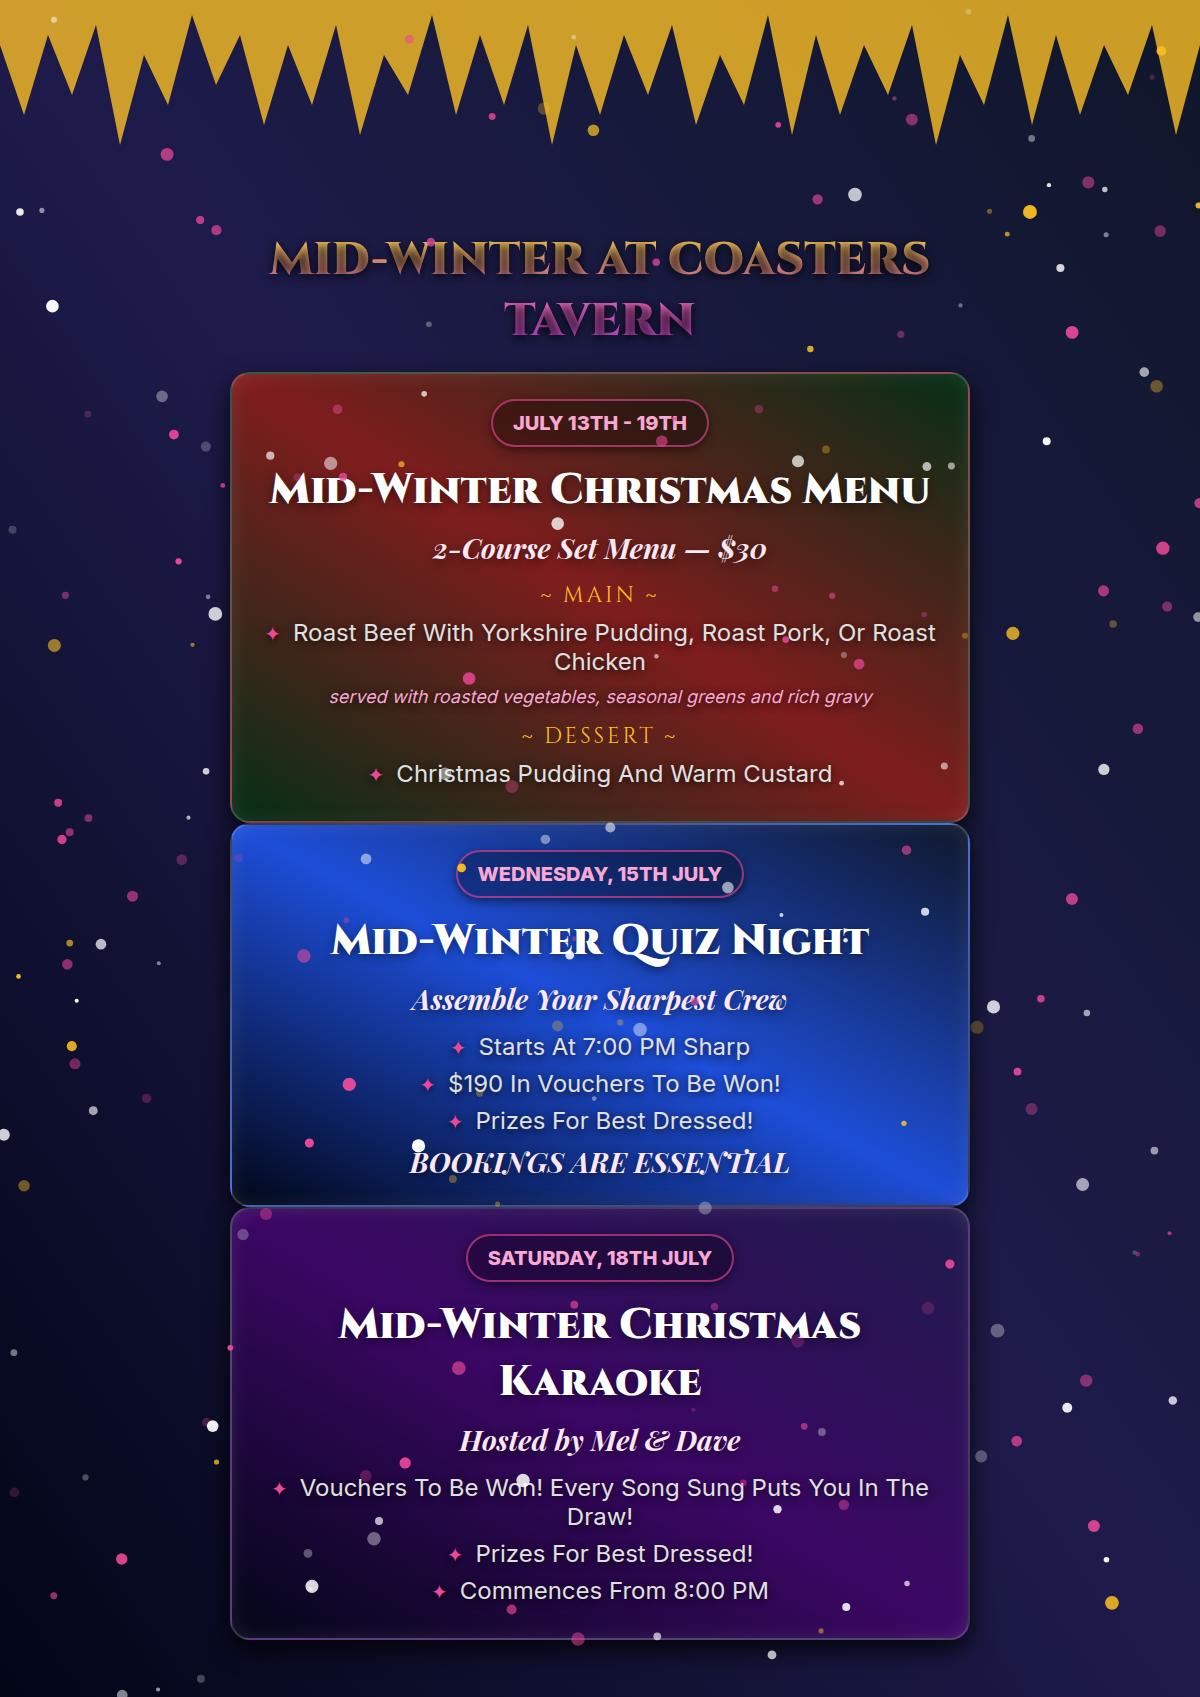
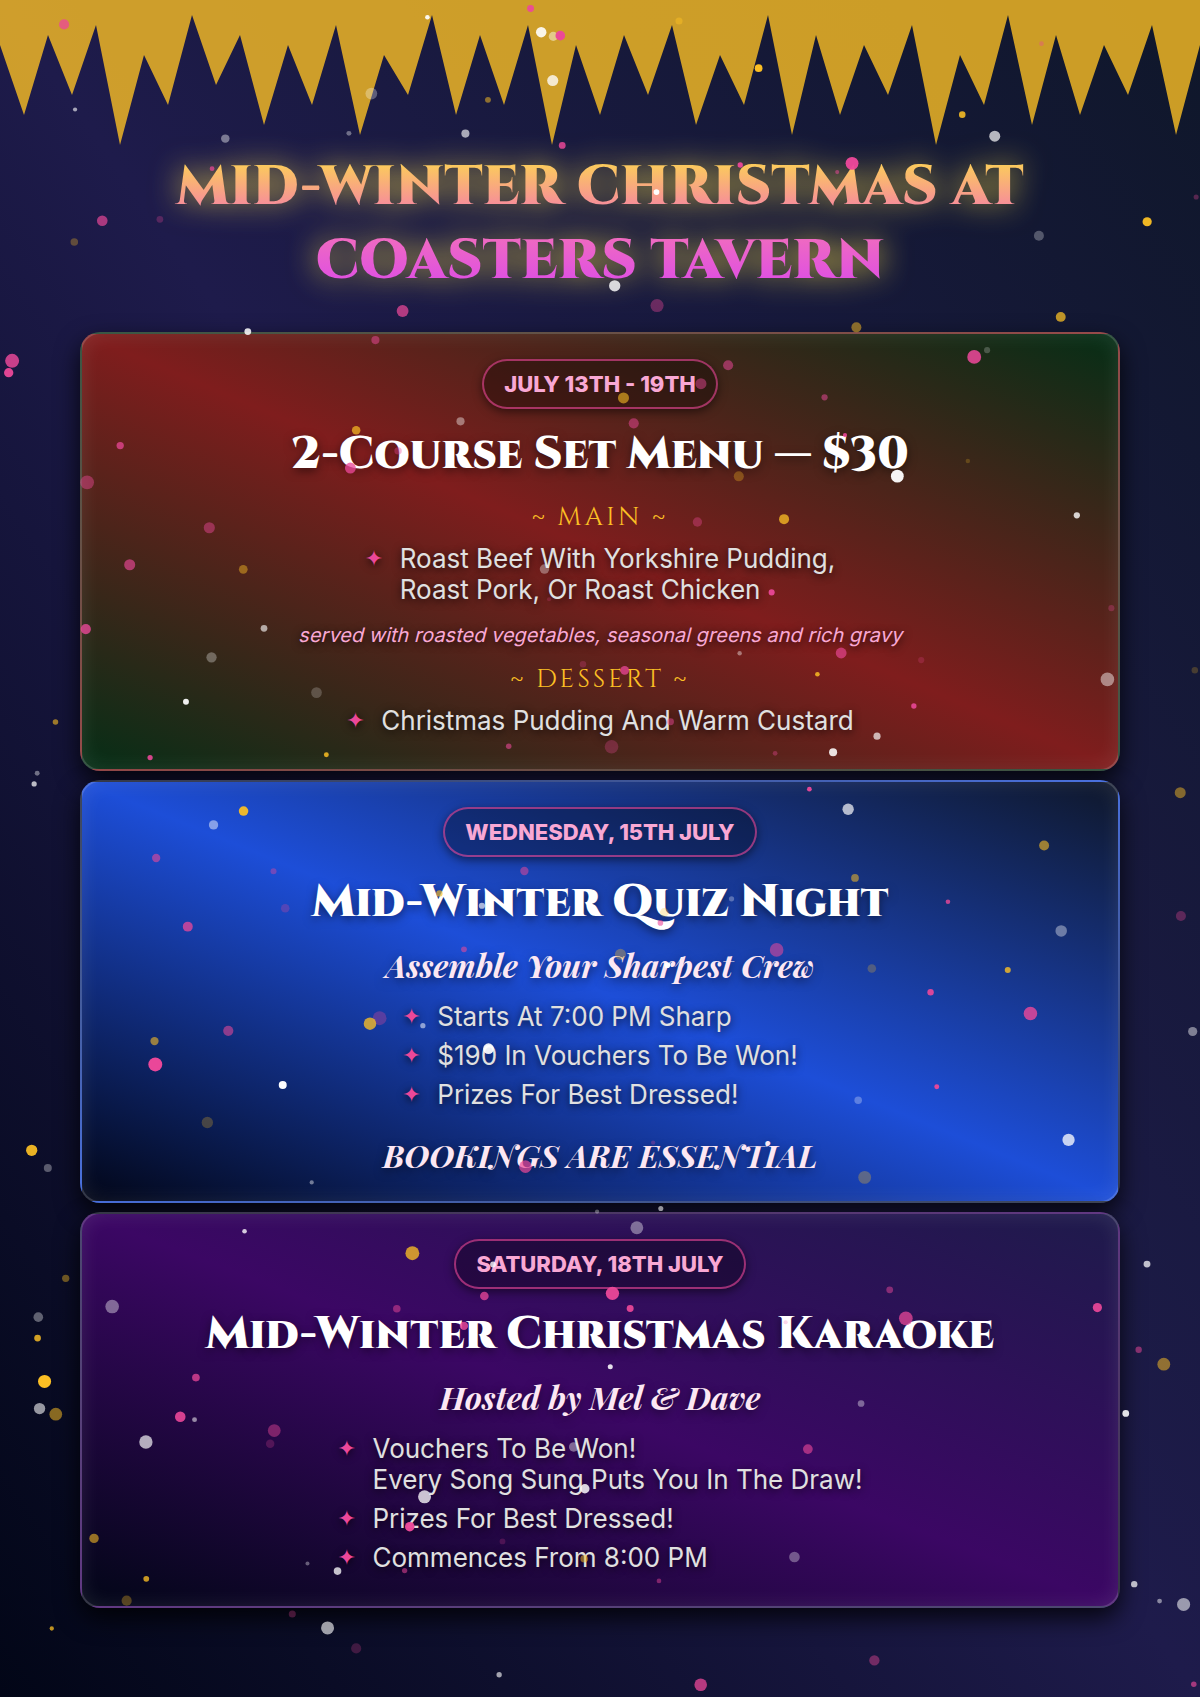
Improve poster typography wrapping, update titles to Mid-Winter Christmas at Coasters Tavern, add glowing effect

diff --git a/poster_all.html b/poster_all.html
@@ -14,7 +14,7 @@
         }
         .poster-content {
             position: absolute; top: 0; left: 0; right: 0; bottom: 0;
-            padding: 230px; box-sizing: border-box;
+            padding: 150px 80px 80px 80px; box-sizing: border-box;
             display: flex; flex-direction: column; align-items: center; justify-content: flex-start;
             z-index: 20;
         }
@@ -27,11 +27,11 @@
             position: absolute; top: 0; left: 0; width: 100%; height: 100%; z-index: 30; pointer-events: none;
         }
         .main-heading {
-            font-family: 'Cinzel', serif; font-size: 45px; font-weight: 900; 
+            font-family: 'Cinzel', serif; font-size: 55px; font-weight: 900; 
             background: linear-gradient(to bottom, #fde047, #f472b6, #d946ef); 
             -webkit-background-clip: text; color: transparent; text-align: center; 
-            margin-top: 0px; margin-bottom: 20px; z-index: 20; text-transform: uppercase;
-            text-shadow: 0 3px 10px rgba(0,0,0,0.8);
+            margin-top: 0px; margin-bottom: 25px; z-index: 20; text-transform: uppercase;
+            filter: drop-shadow(0 0 15px rgba(253, 224, 71, 0.8));
         }
         .slide-container { 
             display: flex; flex-direction: column; align-items: center; 
@@ -40,36 +40,35 @@
         }
         .glass-box {
             border-radius: 20px;
-            border: 2px solid rgba(255, 255, 255, 0.2); padding: 25px 30px;
+            border: 2px solid rgba(255, 255, 255, 0.2); padding: 25px 40px;
             box-shadow: 0 10px 25px rgba(0, 0, 0, 0.8), inset 0 0 20px rgba(255,255,255,0.1); 
             text-align: center; width: 100%; box-sizing: border-box;
         }
-        h1 { font-family: 'Cinzel', serif; font-size: 42px; font-weight: 900; color: #fff; margin: 0 0 10px 0; text-shadow: 0 3px 10px rgba(0,0,0,0.5); }
-        h2 { font-family: 'Playfair Display', serif; font-size: 28px; font-style: italic; color: #fce7f3; margin: 0 0 15px 0; text-shadow: 0 3px 10px rgba(0,0,0,0.5); }
-        .course-title { font-family: 'Cinzel', serif; font-size: 22px; color: #fbbf24; margin: 15px 0 8px 0; letter-spacing: 3px; }
-        .date-badge { display: inline-block; background: rgba(0, 0, 0, 0.3); border: 2px solid rgba(236, 72, 153, 0.6); padding: 10px 20px; font-size: 20px; color: #f9a8d4; border-radius: 50px; margin-bottom: 15px; box-shadow: 0 3px 10px rgba(0,0,0,0.5); font-weight: 900; }
-        ul { list-style: none; padding: 0; margin: 0; }
-        li { font-size: 24px; margin-bottom: 8px; color: #e0e0e0; text-transform: capitalize; text-shadow: 0 2px 8px rgba(0,0,0,0.8); }
-        li::before { content: '✦'; color: #ec4899; margin-right: 12px; font-size: 20px; }
-        .small-text { font-size: 18px; font-style: italic; color: #f9a8d4; margin-top: 10px; text-shadow: 0 2px 8px rgba(0,0,0,0.8); }
+        h1 { font-family: 'Cinzel', serif; font-size: 45px; font-weight: 900; color: #fff; margin: 0 0 10px 0; text-shadow: 0 3px 10px rgba(0,0,0,0.5); }
+        h2 { font-family: 'Playfair Display', serif; font-size: 32px; font-style: italic; color: #fce7f3; margin: 0 0 15px 0; text-shadow: 0 3px 10px rgba(0,0,0,0.5); }
+        .course-title { font-family: 'Cinzel', serif; font-size: 26px; color: #fbbf24; margin: 15px 0 8px 0; letter-spacing: 3px; }
+        .date-badge { display: inline-block; background: rgba(0, 0, 0, 0.3); border: 2px solid rgba(236, 72, 153, 0.6); padding: 10px 20px; font-size: 22px; color: #f9a8d4; border-radius: 50px; margin-bottom: 15px; box-shadow: 0 3px 10px rgba(0,0,0,0.5); font-weight: 900; }
+        ul { list-style: none; padding: 0; margin: 0 auto; display: inline-block; text-align: left; max-width: 95%; }
+        li { font-size: 26px; margin-bottom: 8px; color: #e0e0e0; text-transform: capitalize; text-shadow: 0 2px 8px rgba(0,0,0,0.8); position: relative; padding-left: 35px; line-height: 1.2;}
+        li::before { content: '✦'; color: #ec4899; position: absolute; left: 0; font-size: 22px; top: 2px; }
+        .small-text { font-size: 20px; font-style: italic; color: #f9a8d4; margin-top: 10px; text-shadow: 0 2px 8px rgba(0,0,0,0.8); text-align: center; }
     </style>
 </head>
 <body>
     <canvas id="snow-canvas"></canvas>
     <div class="icicles"></div>
     <div class="poster-content">
-        <div class="main-heading">Mid-Winter at Coasters Tavern</div>
+        <div class="main-heading">Mid-Winter Christmas at Coasters Tavern</div>
         <div class="slide-container">
             <!-- Menu -->
             <div class="glass-box" style="background: linear-gradient(to top right, #052e16, #7f1d1d, #052e16);">
                 <div class="date-badge">JULY 13TH - 19TH</div>
-                <h1>Mid-Winter Christmas Menu</h1>
-                <h2>2-Course Set Menu — $30</h2>
+                <h1>2-Course Set Menu — $30</h1>
                 <div class="course-title">~ MAIN ~</div>
                 <ul>
-                    <li>Roast Beef with Yorkshire pudding, Roast Pork, or Roast Chicken</li>
-                    <div class="small-text">served with roasted vegetables, seasonal greens and rich gravy</div>
+                    <li>Roast Beef with Yorkshire pudding, <br>Roast Pork, or Roast Chicken</li>
                 </ul>
+                <div class="small-text">served with roasted vegetables, seasonal greens and rich gravy</div>
                 <div class="course-title">~ DESSERT ~</div>
                 <ul>
                     <li>Christmas pudding and warm custard</li>
@@ -85,7 +84,7 @@
                     <li>$190 in vouchers to be won!</li>
                     <li>Prizes for best dressed!</li>
                 </ul>
-                <h2 style="margin-bottom: 0;">BOOKINGS ARE ESSENTIAL</h2>
+                <h2 style="margin-bottom: 0; margin-top: 15px;">BOOKINGS ARE ESSENTIAL</h2>
             </div>
             <!-- Karaoke -->
             <div class="glass-box" style="background: linear-gradient(to top right, #020617, #3b0764, #1e1b4b);">
@@ -93,7 +92,7 @@
                 <h1>Mid-Winter Christmas Karaoke</h1>
                 <h2>Hosted by Mel & Dave</h2>   
                 <ul>
-                    <li>Vouchers to be won! Every song sung puts you in the draw!</li>
+                    <li>Vouchers to be won! <br>Every song sung puts you in the draw!</li>
                     <li>Prizes for best Dressed!</li>
                     <li>Commences from 8:00 PM</li>
                 </ul>

diff --git a/poster_menu.html b/poster_menu.html
@@ -14,8 +14,8 @@
         }
         .poster-content {
             position: absolute; top: 0; left: 0; right: 0; bottom: 0;
-            padding: 230px; box-sizing: border-box;
-            display: flex; flex-direction: column; align-items: center; justify-content: center;
+            padding: 180px 100px 100px 100px; box-sizing: border-box;
+            display: flex; flex-direction: column; align-items: center; justify-content: flex-start;
             z-index: 20;
         }
         .icicles {
@@ -26,34 +26,43 @@
         #snow-canvas {
             position: absolute; top: 0; left: 0; width: 100%; height: 100%; z-index: 30; pointer-events: none;
         }
+        .main-heading {
+            font-family: 'Cinzel', serif; font-size: 65px; font-weight: 900; 
+            background: linear-gradient(to bottom, #fde047, #f472b6, #d946ef); 
+            -webkit-background-clip: text; color: transparent; text-align: center; 
+            margin-top: 0px; margin-bottom: 50px; z-index: 20; text-transform: uppercase;
+            filter: drop-shadow(0 0 15px rgba(253, 224, 71, 0.8));
+        }
         .glass-box {
             background: rgba(0, 0, 0, 0.4); border-radius: 30px;
             border: 2px solid rgba(255, 255, 255, 0.1); padding: 50px 60px;
-            box-shadow: 0 10px 25px rgba(0, 0, 0, 0.5); text-align: center; width: 100%; max-width: 740px; box-sizing: border-box;
+            box-shadow: 0 10px 25px rgba(0, 0, 0, 0.5); text-align: center; width: 100%; max-width: 900px; box-sizing: border-box;
         }
-        h1 { font-family: 'Cinzel', serif; font-size: 65px; font-weight: 900; background: linear-gradient(to bottom, #fde047, #f472b6, #d946ef); -webkit-background-clip: text; color: transparent; margin: 0 0 20px 0; }
+        h1 { font-family: 'Cinzel', serif; font-size: 55px; font-weight: 900; color: #fff; margin: 0 0 20px 0; }
         h2 { font-family: 'Playfair Display', serif; font-size: 40px; font-style: italic; color: #fce7f3; margin: 0 0 30px 0; }
-        .course-title { font-family: 'Cinzel', serif; font-size: 30px; color: #fbbf24; margin: 25px 0 15px 0; letter-spacing: 4px; }
-        .date-badge { display: inline-block; background: rgba(217, 70, 239, 0.2); border: 2px solid rgba(236, 72, 153, 0.4); padding: 15px 30px; font-size: 25px; color: #f9a8d4; border-radius: 50px; margin-bottom: 30px; }
-        ul { list-style: none; padding: 0; margin: 0; }
-        li { font-size: 30px; margin-bottom: 15px; color: #e0e0e0; text-transform: capitalize; }
-        li::before { content: '✦'; color: #ec4899; margin-right: 15px; font-size: 28px; }
-        .small-text { font-size: 22px; font-style: italic; color: #f9a8d4; margin-top: 10px; }
+        .course-title { font-family: 'Cinzel', serif; font-size: 35px; color: #fbbf24; margin: 35px 0 20px 0; letter-spacing: 4px; }
+        .date-badge { display: inline-block; background: rgba(217, 70, 239, 0.2); border: 2px solid rgba(236, 72, 153, 0.4); padding: 15px 30px; font-size: 28px; color: #f9a8d4; border-radius: 50px; margin-bottom: 30px; font-weight: 900;}
+        ul { list-style: none; padding: 0; margin: 0 auto; display: inline-block; text-align: left; max-width: 95%; }
+        li { font-size: 35px; margin-bottom: 15px; color: #e0e0e0; text-transform: capitalize; position: relative; padding-left: 45px; line-height: 1.3;}
+        li::before { content: '✦'; color: #ec4899; position: absolute; left: 0; font-size: 30px; top: 2px; }
+        .small-text { font-size: 26px; font-style: italic; color: #f9a8d4; margin-top: 15px; text-align: center; }
     </style>
 </head>
 <body>
     <canvas id="snow-canvas"></canvas>
     <div class="icicles"></div>
     <div class="poster-content">
+        <div class="main-heading">Mid-Winter Christmas <br>at Coasters Tavern</div>
         <div class="glass-box">
             <div class="date-badge">JULY 13TH - 19TH</div>
-            <h1>Mid-Winter Christmas Menu</h1>
-            <h2>2-Course Set Menu — $30</h2>
+            <h1>2-Course Set Menu — $30</h1>
+            
             <div class="course-title">~ MAIN ~</div>
             <ul>
-                <li>Roast Beef with Yorkshire pudding, Roast Pork, or Roast Chicken</li>
-                <div class="small-text">served with roasted vegetables, seasonal greens and rich gravy</div>
+                <li>Roast Beef with Yorkshire pudding, <br>Roast Pork, or Roast Chicken</li>
             </ul>
+            <div class="small-text">served with roasted vegetables, seasonal greens and rich gravy</div>
+            
             <div class="course-title">~ DESSERT ~</div>
             <ul>
                 <li>Christmas pudding and warm custard</li>
